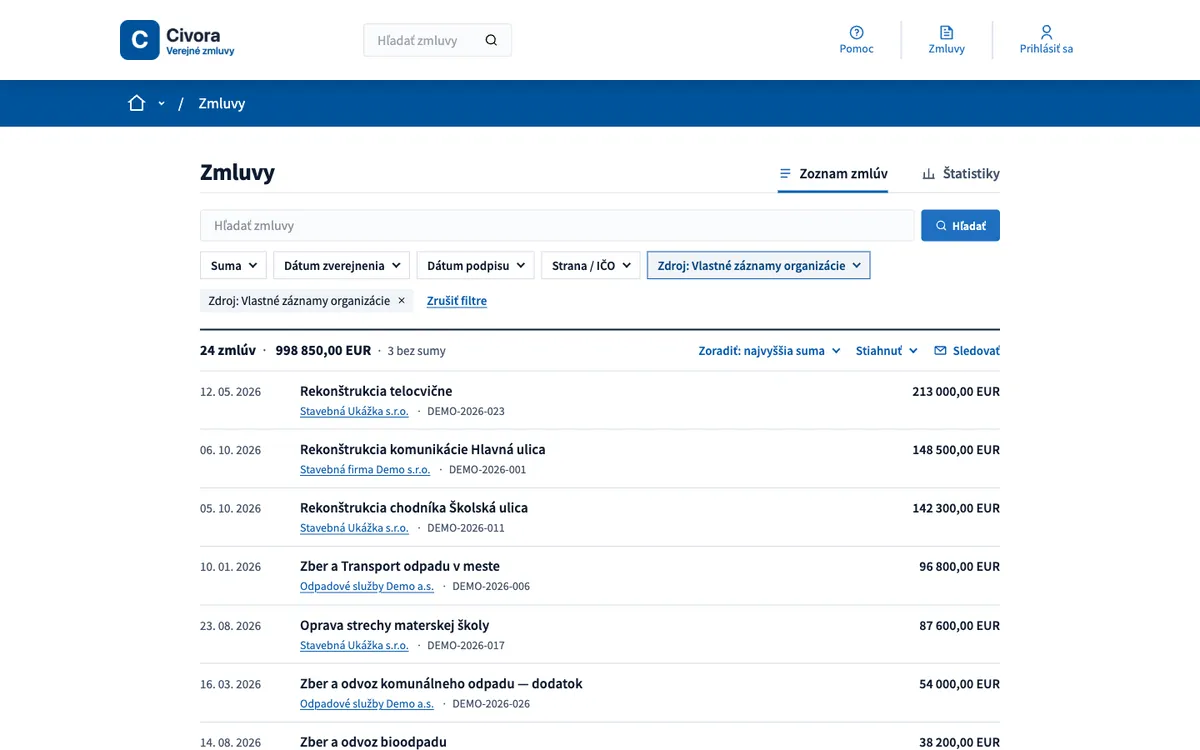
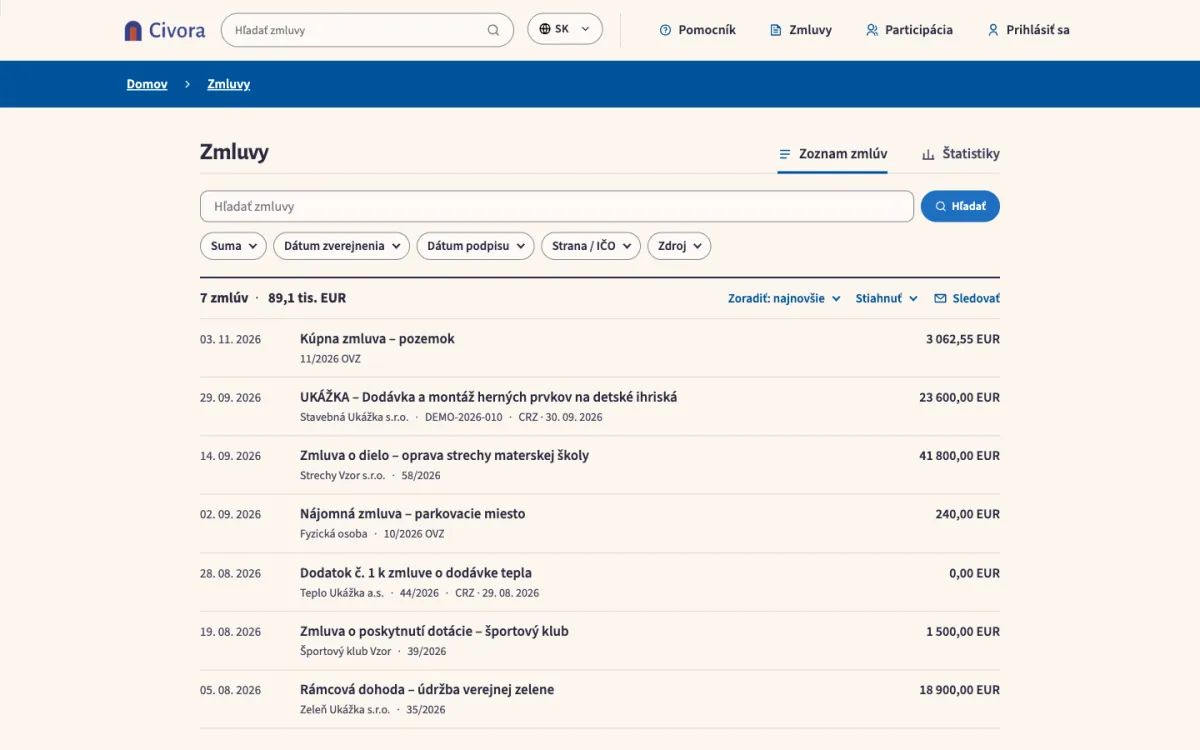
feat(landing): refresh the landing with the product as of November 2026
Story, checklist and gallery now show contract templates in Word with a
publication copy without personal data, the CRZ effectiveness status and
deadline e-mail, the Čo treba dnes urobiť home, the contract workspace and
the new public look. New screenshots of the fictional Mesto Ukážkové; the
notes, roles and import screens are dropped from the gallery.

diff --git a/index.html b/index.html
@@ -4,7 +4,7 @@
 <meta charset="utf-8">
 <meta name="viewport" content="width=device-width, initial-scale=1">
 <title>Civora: dôvera medzi ľuďmi a ich obcou | Civora Zmluvy</title>
-<meta name="description" content="Civora pomáha obciam pracovať s ľuďmi otvorene a presne. Prvý produkt, Civora Zmluvy, vedie zmluvy obce od návrhu po verejný katalóg a prepojenie na CRZ. Postavené na open-source platforme Decidim.">
+<meta name="description" content="Civora pomáha obciam pracovať s ľuďmi otvorene a presne. Prvý produkt, Civora Zmluvy, pripraví zmluvu z vašej šablóny vo Worde, vedie ju od návrhu po verejný katalóg a prepojenie na CRZ. Postavené na open-source platforme Decidim.">
 <link rel="canonical" href="https://civora.sk/">
 <meta name="robots" content="index,follow,max-image-preview:large">
 <meta name="theme-color" content="#fbf6ee">
@@ -14,7 +14,7 @@
 <meta property="og:title" content="Civora: dôvera medzi ľuďmi a ich obcou">
 <meta property="og:description" content="Prvý produkt: Civora Zmluvy, pracovný postup a verejný katalóg zmlúv pre obce, mestá a mestské časti.">
 <meta property="og:locale" content="sk_SK">
-<meta property="og:image" content="https://civora.sk/img/og-image.png?v=20261014">
+<meta property="og:image" content="https://civora.sk/img/og-image.png?v=20261104">
 <meta property="og:image:width" content="1200">
 <meta property="og:image:height" content="630">
 <meta property="og:image:alt" content="Civora: dôvera medzi ľuďmi a ich obcou. Prvý produkt: Civora Zmluvy.">
@@ -58,8 +58,8 @@
       "applicationCategory": "BusinessApplication",
       "operatingSystem": "Web",
       "inLanguage": "sk",
-      "description": "Prvý produkt Civora: pracovný postup a verejný katalóg zmlúv pre obce, mestá a mestské časti, od návrhu po zverejnenie a prepojenie na CRZ.",
-      "image": "https://civora.sk/img/og-image.png?v=20261014",
+      "description": "Prvý produkt Civora: zmluvy zo šablón obce vo Worde, pracovný postup s kontrolou druhou osobou a verejný katalóg zmlúv pre obce, mestá a mestské časti, od návrhu po zverejnenie a prepojenie na CRZ.",
+      "image": "https://civora.sk/img/og-image.png?v=20261104",
       "publisher": {"@id": "https://civora.sk/#org"}
     }
   ]
@@ -376,7 +376,7 @@ footer .brand img{height:32px}
         </svg>
         <div class="reveal" style="--d:.1s">
           <h3>Ráno ju pripraví pani Jana z podateľne</h3>
-          <p>Prišla podpísaná zmluva o oprave strechy škôlky. Pani Jana ju vloží do Civory, doplní zmluvné strany a sumu, pripojí dokument. Nemusí nič hľadať v starej tabuľke ani nikomu volať, kde je posledná verzia.</p>
+          <p>Civora jej na úvodnej stránke ukáže, čo je dnes na rade. Pre predaj pozemku vyberie šablónu, ktorú obec už má vo Worde, a vyplní formulár. Číslo zmluvy sa pridelí v tvare, aký obec používa, a sumu napíše Civora aj slovom. Zmluvné strany sa doplnia samy. Nemusí nič hľadať v starých súboroch ani nikomu volať, kde je posledná verzia.</p>
         </div>
       </li>
       <li class="vig">
@@ -392,7 +392,7 @@ footer .brand img{height:32px}
         </svg>
         <div class="reveal" style="--d:.1s">
           <h3>Pred obedom ju skontroluje pán Marek</h3>
-          <p>Pán Marek zmluvu prejde: sumy, dátumy, a najmä osobné údaje. Kým nepotvrdí, že ich skontroloval, zmluvu nemožno zverejniť. Pri zmluve zostane jeho meno a čas. Nie preto, že by mu niekto neveril, ale aby bolo jasné, kto za čo ručí.</p>
+          <p>Pani Jana zmluvu odoslala, preto ju sama neschváli. Pán Marek ju prejde: sumy, dátumy, a najmä osobné údaje. Civora z nej urobí aj verziu na zverejnenie, v ktorej sú osobné údaje kupujúceho skryté, a skontroluje, že v PDF nezostali. Kým pán Marek nepotvrdí, že ich skontroloval, zmluvu nemožno zverejniť. Pri zmluve zostane jeho meno a čas. Nie preto, že by mu niekto neveril, ale aby bolo jasné, kto za čo ručí.</p>
         </div>
       </li>
       <li class="vig">
@@ -414,7 +414,7 @@ footer .brand img{height:32px}
         </div>
       </li>
     </ol>
-    <p class="story-end reveal">Ak príde dodatok, nájde ho vedľa pôvodnej zmluvy. A zmluvy, ktoré už sú v Centrálnom registri zmlúv, sa v katalógu zobrazia samy.</p>
+    <p class="story-end reveal">Ak príde dodatok, nájde ho vedľa pôvodnej zmluvy. Zmluvy, ktoré už sú v Centrálnom registri zmlúv, sa v katalógu zobrazia samy. A kým sa nová zmluva do registra nedostane, Civora ju vedie ako „zatiaľ neúčinnú“ a zodpovednému človeku pošle ráno e-mail, keď sa jej lehota blíži alebo uplynula.</p>
   </div>
 </section>
 
@@ -425,12 +425,13 @@ footer .brand img{height:32px}
       <p>Obec nemusí veriť nám na slovo. Toto sú veci, ktoré sa dajú skontrolovať.</p>
     </div>
     <ul class="checks reveal" style="--d:.1s">
-      <li><h3>Každý krok má meno a čas</h3><p>Auditná stopa zapisuje, kto čo a kedy zmenil. Pre kontrolu aj pre vlastnú disciplínu.</p></li>
-      <li><h3>Osobné údaje nikto nepreskočí</h3><p>Pred zverejnením treba potvrdiť, že zmluvu skontrolovali z hľadiska GDPR.</p></li>
+      <li><h3>Každý krok má meno a čas</h3><p>Auditná stopa zapisuje, kto čo a kedy zmenil. Zmluvu, ktorú niekto odoslal, nemôže schváliť ten istý človek.</p></li>
+      <li><h3>Osobné údaje nikto nepreskočí</h3><p>Verziu na zverejnenie Civora overí a pred zverejnením musí skrytie osobných údajov potvrdiť človek.</p></li>
       <li><h3>Dodatok nič neprepíše</h3><p>Zmeny sa vedú ako nové verzie. Zverejnený záznam zostáva úplný.</p></li>
-      <li class="lit"><h3>Úradný záznam zostáva v CRZ</h3><p>Civora ho pripravuje a nenahrádza. Pre novú zmluvu vznikne PDF podklad na vloženie do CRZ.</p></li>
-      <li><h3>Katalóg bez vlastného webu</h3><p>Občania a novinári dostanú prehľadnú stránku s vyhľadávaním. Obec nemusí stavať nič navyše.</p></li>
-      <li><h3>Dáta ostávajú vaše</h3><p>Otvorený kód na platforme Decidim (AGPL), bez viazanosti na dodávateľa.</p></li>
+      <li class="lit"><h3>Úradný záznam zostáva v CRZ</h3><p>Civora ho pripravuje a nenahrádza. Zmluva je v Civore zatiaľ neúčinná, kým sa nevloží do CRZ, a ráno príde e-mail o lehotách.</p></li>
+      <li><h3>Zmluvy z vašich šablón</h3><p>Používa sa vaša šablóna vo Worde, vaša hlavička a vaše číslovanie. Fyzická osoba sa vo verejnom zázname zobrazí len ako „Fyzická osoba“.</p></li>
+      <li><h3>Katalóg bez vlastného webu</h3><p>Občania a novinári dostanú prehľadnú stránku s vyhľadávaním, štatistikami, stránkami dodávateľov a otvorenými dátami. Obec nemusí stavať nič navyše.</p></li>
+      <li><h3>Dáta ostávajú vaše</h3><p>Otvorený kód na platforme Decidim (AGPL), bez viazanosti na dodávateľa. Modul je uvedený medzi komunitnými modulmi na <a href="https://decidim.org/modules/" rel="noopener">decidim.org</a>.</p></li>
     </ul>
   </div>
 </section>
@@ -438,42 +439,57 @@ footer .brand img{height:32px}
 <section class="gal" id="galeria">
   <div class="wrap">
     <h2>A takto vyzerá program zblízka</h2>
-    <p class="gal__intro">Verejný katalóg aj administrácia v Civora Zmluvy. Všetko sú vymyslené dáta Obce Ukážkovej.</p>
+    <p class="gal__intro">Pracovný postup úradníka aj verejný katalóg v Civora Zmluvy. Všetko sú vymyslené dáta Mesta Ukážkového.</p>
     <div class="gal__body">
       <ol class="gal__list">
+        <li class="gal__item" data-id="today-sk">
+          <h3 class="gal__title">Čo treba dnes urobiť</h3>
+          <p class="gal__line">Úvodná stránka administrácie: lehoty CRZ a kroky, ktoré čakajú práve na vás.</p>
+          <div class="frame"><div class="shot"><img src="img/today-sk-1440.webp?v=20261104" srcset="img/today-sk-480.webp?v=20261104 480w, img/today-sk-800.webp?v=20261104 800w, img/today-sk-1200.webp?v=20261104 1200w, img/today-sk-1440.webp?v=20261104 1440w" sizes="(max-width:959px) calc(100vw - 60px), 560px" width="1440" height="900" alt="Úvodná stránka administrácie s nadpisom „Čo treba dnes urobiť“: tri zmluvy po lehote CRZ a schválené zmluvy čakajúce na zverejnenie, ku každej tlačidlo (ukážkové dáta)" loading="lazy" decoding="async"></div></div>
+        </li>
+        <li class="gal__item" data-id="workspace-sk">
+          <h3 class="gal__title">Stránka zmluvy</h3>
+          <p class="gal__line">Päť krokov, jeden ďalší krok a stav účinnosti na jednom mieste.</p>
+          <div class="frame"><div class="shot"><img src="img/workspace-sk-1440.webp?v=20261104" srcset="img/workspace-sk-480.webp?v=20261104 480w, img/workspace-sk-800.webp?v=20261104 800w, img/workspace-sk-1200.webp?v=20261104 1200w, img/workspace-sk-1440.webp?v=20261104 1440w" sizes="(max-width:959px) calc(100vw - 60px), 560px" width="1440" height="900" alt="Stránka zmluvy v administrácii: päťkrokový ukazovateľ od konceptu po vloženie do CRZ, ďalší krok s tlačidlom, lehota CRZ a stav „zatiaľ neúčinná“ (ukážkové dáta)" loading="lazy" decoding="async"></div></div>
+        </li>
+        <li class="gal__item" data-id="template-form-sk">
+          <h3 class="gal__title">Zmluva z vašej šablóny</h3>
+          <p class="gal__line">Formulár vychádza zo šablóny obce. Hlavička obce sa doplní sama.</p>
+          <div class="frame"><div class="shot"><img src="img/template-form-sk-1440.webp?v=20261104" srcset="img/template-form-sk-480.webp?v=20261104 480w, img/template-form-sk-800.webp?v=20261104 800w, img/template-form-sk-1200.webp?v=20261104 1200w, img/template-form-sk-1440.webp?v=20261104 1440w" sizes="(max-width:959px) calc(100vw - 60px), 560px" width="1440" height="900" alt="Formulár novej zmluvy zo šablóny: hlavička obce vyplnená automaticky a polia pre kupujúceho označené ako osobné údaje, ktoré sa vo verzii na zverejnenie skryjú (ukážkové dáta)" loading="lazy" decoding="async"></div></div>
+        </li>
+        <li class="gal__item" data-id="template-docs-sk">
+          <h3 class="gal__title">Word, PDF a verzia na zverejnenie</h3>
+          <p class="gal__line">Z formulára vznikne zmluva vo Worde a v PDF aj kópia bez osobných údajov.</p>
+          <div class="frame"><div class="shot"><img src="img/template-docs-sk-1440.webp?v=20261104" srcset="img/template-docs-sk-480.webp?v=20261104 480w, img/template-docs-sk-800.webp?v=20261104 800w, img/template-docs-sk-1200.webp?v=20261104 1200w, img/template-docs-sk-1440.webp?v=20261104 1440w" sizes="(max-width:959px) calc(100vw - 60px), 560px" width="1440" height="900" alt="Dokumenty vygenerované zo šablóny: interná zmluva vo Worde a v PDF a verzia na zverejnenie so značkou „skryté údaje“, pod nimi údaje o zmluve a zmluvné strany, fyzická osoba bez mena (ukážkové dáta)" loading="lazy" decoding="async"></div></div>
+        </li>
+        <li class="gal__item" data-id="publication-pdf-sk">
+          <h3 class="gal__title">Verzia na zverejnenie</h3>
+          <p class="gal__line">V PDF na zverejnenie je namiesto osobných údajov kupujúceho text „osobné údaje – skryté“.</p>
+          <div class="frame"><div class="shot"><img src="img/publication-pdf-sk-1440.webp?v=20261104" srcset="img/publication-pdf-sk-480.webp?v=20261104 480w, img/publication-pdf-sk-800.webp?v=20261104 800w, img/publication-pdf-sk-1200.webp?v=20261104 1200w, img/publication-pdf-sk-1440.webp?v=20261104 1440w" sizes="(max-width:959px) calc(100vw - 60px), 560px" width="1440" height="900" alt="Prvá strana PDF verzie na zverejnenie kúpnej zmluvy: údaje predávajúceho sú vyplnené, údaje kupujúceho sú nahradené textom „[osobné údaje – skryté]“ (ukážkové dáta)" loading="lazy" decoding="async"></div></div>
+        </li>
         <li class="gal__item" data-id="catalogue-sk">
           <h3 class="gal__title">Verejný katalóg</h3>
-          <p class="gal__line">Zoznam zverejnených zmlúv s vyhľadávaním, filtrami a sumami pre občanov a novinárov.</p>
-          <div class="frame"><div class="shot"><img src="img/catalogue-sk-1440.webp?v=20261014" srcset="img/catalogue-sk-480.webp?v=20261014 480w, img/catalogue-sk-800.webp?v=20261014 800w, img/catalogue-sk-1200.webp?v=20261014 1200w, img/catalogue-sk-1440.webp?v=20261014 1440w" sizes="(max-width:959px) calc(100vw - 60px), 560px" width="1440" height="900" alt="Verejný katalóg zmlúv s vyhľadávaním, filtrami a zoznamom zmlúv so sumami (ukážkové dáta)" loading="lazy" decoding="async"></div></div>
+          <p class="gal__line">Zoznam zverejnených zmlúv s vyhľadávaním, filtrami a sumami, vo farbách obce.</p>
+          <div class="frame"><div class="shot"><img src="img/catalogue-sk-1440.webp?v=20261104" srcset="img/catalogue-sk-480.webp?v=20261104 480w, img/catalogue-sk-800.webp?v=20261104 800w, img/catalogue-sk-1200.webp?v=20261104 1200w, img/catalogue-sk-1440.webp?v=20261104 1440w" sizes="(max-width:959px) calc(100vw - 60px), 560px" width="1440" height="900" alt="Verejný katalóg zmlúv vo farbách obce s vyhľadávaním, filtrami, súčtom a zoznamom zmlúv so sumami (ukážkové dáta)" loading="lazy" decoding="async"></div></div>
         </li>
         <li class="gal__item" data-id="detail-crz-sk">
-          <h3 class="gal__title">Detail s pôvodom z CRZ</h3>
-          <p class="gal__line">Odkaz na pôvodný záznam v CRZ a upozornenie, že ide o externe potvrdené údaje.</p>
-          <div class="frame"><div class="shot"><img src="img/detail-crz-sk-1440.webp?v=20261014" srcset="img/detail-crz-sk-480.webp?v=20261014 480w, img/detail-crz-sk-800.webp?v=20261014 800w, img/detail-crz-sk-1200.webp?v=20261014 1200w, img/detail-crz-sk-1440.webp?v=20261014 1440w" sizes="(max-width:959px) calc(100vw - 60px), 560px" width="1440" height="900" alt="Detail zmluvy zrkadlenej z CRZ s údajmi o zmluve, zmluvnými stranami a odkazom na pôvodný záznam (ukážkové dáta)" loading="lazy" decoding="async"></div></div>
+          <h3 class="gal__title">Detail zmluvy</h3>
+          <p class="gal__line">Údaje o zmluve, zmluvné strany a dátum zverejnenia v CRZ.</p>
+          <div class="frame"><div class="shot"><img src="img/detail-crz-sk-1440.webp?v=20261104" srcset="img/detail-crz-sk-480.webp?v=20261104 480w, img/detail-crz-sk-800.webp?v=20261104 800w, img/detail-crz-sk-1200.webp?v=20261104 1200w, img/detail-crz-sk-1440.webp?v=20261104 1440w" sizes="(max-width:959px) calc(100vw - 60px), 560px" width="1440" height="900" alt="Verejný detail zmluvy s číslom zmluvy, dátumom zverejnenia v CRZ, sumou a zmluvnými stranami (ukážkové dáta)" loading="lazy" decoding="async"></div></div>
         </li>
-        <li class="gal__item" data-id="notes-sk">
-          <h3 class="gal__title">Interné poznámky</h3>
-          <p class="gal__line">Tím sa dohodne priamo pri zmluve. Vidia ich iba nositelia rolí, verejnosť nikdy.</p>
-          <div class="frame"><div class="shot"><img src="img/notes-sk-1440.webp?v=20261014" srcset="img/notes-sk-480.webp?v=20261014 480w, img/notes-sk-800.webp?v=20261014 800w, img/notes-sk-1200.webp?v=20261014 1200w, img/notes-sk-1440.webp?v=20261014 1440w" sizes="(max-width:959px) calc(100vw - 60px), 560px" width="1440" height="900" alt="Interné poznámky k zmluve v administrácii: dve poznámky a pole na pridanie ďalšej (ukážkové dáta)" loading="lazy" decoding="async"></div></div>
-        </li>
-        <li class="gal__item" data-id="import-preview-sk">
-          <h3 class="gal__title">Import z tabuľky</h3>
-          <p class="gal__line">Náhľad ukáže chybné riadky ešte pred uložením. Nič sa neuloží, kým to nepotvrdíte.</p>
-          <div class="frame"><div class="shot"><img src="img/import-preview-sk-1440.webp?v=20261014" srcset="img/import-preview-sk-480.webp?v=20261014 480w, img/import-preview-sk-800.webp?v=20261014 800w, img/import-preview-sk-1200.webp?v=20261014 1200w, img/import-preview-sk-1440.webp?v=20261014 1440w" sizes="(max-width:959px) calc(100vw - 60px), 560px" width="1440" height="900" alt="Náhľad importu zmlúv z tabuľky CSV: tri platné riadky a dva riadky s chybou v sume a v dátume (ukážkové dáta)" loading="lazy" decoding="async"></div></div>
-        </li>
-        <li class="gal__item" data-id="roles-sk">
-          <h3 class="gal__title">Správa rolí</h3>
-          <p class="gal__line">Prehľad nositeľov rolí a udelenie alebo odobratie roly.</p>
-          <div class="frame"><div class="shot"><img src="img/roles-sk-1440.webp?v=20261014" srcset="img/roles-sk-480.webp?v=20261014 480w, img/roles-sk-800.webp?v=20261014 800w, img/roles-sk-1200.webp?v=20261014 1200w, img/roles-sk-1440.webp?v=20261014 1440w" sizes="(max-width:959px) calc(100vw - 60px), 560px" width="1440" height="900" alt="Správa rolí v administrácii s používateľom v roli recenzenta (ukážkové dáta)" loading="lazy" decoding="async"></div></div>
+        <li class="gal__item" data-id="mobile-sk">
+          <h3 class="gal__title">Na telefóne</h3>
+          <p class="gal__line">Katalóg aj detail zmluvy sa čítajú aj z mobilu.</p>
+          <div class="frame"><div class="shot"><img src="img/mobile-sk-1440.webp?v=20261104" srcset="img/mobile-sk-480.webp?v=20261104 480w, img/mobile-sk-800.webp?v=20261104 800w, img/mobile-sk-1200.webp?v=20261104 1200w, img/mobile-sk-1440.webp?v=20261104 1440w" sizes="(max-width:959px) calc(100vw - 60px), 560px" width="1440" height="900" alt="Katalóg zmlúv a detail zmluvy zobrazené na dvoch telefónoch vedľa seba (ukážkové dáta)" loading="lazy" decoding="async"></div></div>
         </li>
         <li class="gal__item" data-id="audit-trail">
           <h3 class="gal__title">Auditná stopa</h3>
-          <p class="gal__line">Pri zmluve vidno, kto, čo a kedy zmenil.</p>
-          <div class="frame"><div class="shot"><img src="img/audit-trail-1440.webp?v=20261014" srcset="img/audit-trail-480.webp?v=20261014 480w, img/audit-trail-800.webp?v=20261014 800w, img/audit-trail-1200.webp?v=20261014 1200w, img/audit-trail-1440.webp?v=20261014 1440w" sizes="(max-width:959px) calc(100vw - 60px), 560px" width="1440" height="900" alt="Auditná stopa jednej zmluvy so zoznamom operácií, používateľov a dátumov (ukážkové dáta)" loading="lazy" decoding="async"></div></div>
+          <p class="gal__line">Vidno, kto, čo a kedy zmenil.</p>
+          <div class="frame"><div class="shot"><img src="img/audit-trail-1440.webp?v=20261104" srcset="img/audit-trail-480.webp?v=20261104 480w, img/audit-trail-800.webp?v=20261104 800w, img/audit-trail-1200.webp?v=20261104 1200w, img/audit-trail-1440.webp?v=20261104 1440w" sizes="(max-width:959px) calc(100vw - 60px), 560px" width="1440" height="900" alt="Auditná stopa zmlúv so zoznamom operácií, používateľov a dátumov (ukážkové dáta)" loading="lazy" decoding="async"></div></div>
         </li>
       </ol>
     </div>
-    <p class="gal__note">Obrazovky ešte nesú starší vzhľad programu. Dolaďujeme ho, aby sa podobal na túto stránku.</p>
+    <p class="gal__note">Mesto, zmluvy aj osoby na obrazovkách sú vymyslené. Verejné stránky preberajú farby obce, Civora sa podpisuje len malým písmom.</p>
   </div>
 </section>
 

diff --git a/DESIGN.md b/DESIGN.md
@@ -169,7 +169,7 @@ A `ul` of six hairline-separated items. Each opens with a small indigo arch (ter
 Lives in the indigo contact band, between the intro sentence and the phone and e-mail line. A 68px round photo (`img/denys.jpg`, `object-position: 50% 28%`, paper ring) beside one Alegreya line, "Civoru stavia Denys Kozlov", and one short sentence in the band's tinted text colour. No letter, no sheet, no separate section. Stays on one row down to 375px. Never a stock or generated face.
 
 ### Product frame and gallery
-Screenshots sit in a cream mat, then a 1px rule frame with 10px radius, at most 560px wide, below the story. They show the fictional "Obec Ukážková" only and still carry the product's current look; the note says so. Every screenshot has five files (PNG plus WebP at four widths) and a `?v=YYYYMMDD` cache-bust. Tablist with a sticky stage at 960px and wider, stacked frames elsewhere and without JavaScript.
+Screenshots sit in a cream mat, then a 1px rule frame with 10px radius, at most 560px wide, below the story. They show the fictional "Mesto Ukážkové" only and carry the product's current look (warm paper, the town's own colours); the note says that the town, contracts and people are invented. Every screenshot has five files (PNG plus WebP at four widths) and a `?v=YYYYMMDD` cache-bust. Tablist with a sticky stage at 960px and wider, stacked frames elsewhere and without JavaScript.
 
 ### Closing band
 The only deep-indigo surface: paper heading, #e3dcee text, white underlined contact links, the primary button, the offer line ("Cena podľa veľkosti obce — pošlem ponuku", no prices) and the three doors on the right, which rise in.
@@ -185,7 +185,7 @@ Published at stable URLs under `/brand/` (wordmarks, marks at 16 to 512 px, icon
 - **Do** keep motion optional: visible by default, off for reduced motion, no libraries.
 - **Do** lead with trust between people and their town; present Civora Zmluvy as the first product.
 - **Do** keep the CRZ attribution wherever CRZ data is shown (footer and the CRZ detail screenshot).
-- **Do** show only the fictional "Obec Ukážková" in screenshots, and use "Cena podľa veľkosti obce — pošlem ponuku" for pricing.
+- **Do** show only the fictional "Mesto Ukážkové" in screenshots, and use "Cena podľa veľkosti obce — pošlem ponuku" for pricing.
 - **Do** check 375px (no horizontal scroll) and Slovak diacritics in every face after a copy change.
 
 ### Don't:

diff --git a/README.md b/README.md
@@ -49,7 +49,7 @@ No install is needed. Any server that serves `.webp` as `image/webp` and `.woff2
 
 ## Product screenshots
 
-The gallery uses screenshots from the public demo host. They show fictional data only. Never publish a screenshot with real names, e-mail addresses or contract data.
+The gallery uses screenshots from the public demo host. They show fictional data only: the town is "Mesto Ukážkové", and the town name, logo text and any town identifiers are replaced in the page (DOM) before the screenshot, never in the database. Where a view would show real register rows, the list is built from invented records or the view is left out. Never publish a screenshot with real names, e-mail addresses, IČO, bank details or contract data. PDF screenshots are rendered from a generated PDF and repainted with fictional values where the town's own data appears.
 
 Each screenshot has five files:
 
@@ -60,7 +60,7 @@ The repository has no script that makes the screenshots or the WebP files. Creat
 
 ### Cache-busting
 
-Every reference to a screenshot or to the Open Graph image has a version query, `?v=YYYYMMDD`. The date is the day the images were last replaced. The current value is `20261014`, and it appears in `img` and `srcset` attributes, the Open Graph image and the JSON-LD image.
+Every reference to a screenshot or to the Open Graph image has a version query, `?v=YYYYMMDD`. The date is the day the images were last replaced. The current value is `20261104`, and it appears in `img` and `srcset` attributes, the Open Graph image and the JSON-LD image.
 
 When you replace an image:
 
